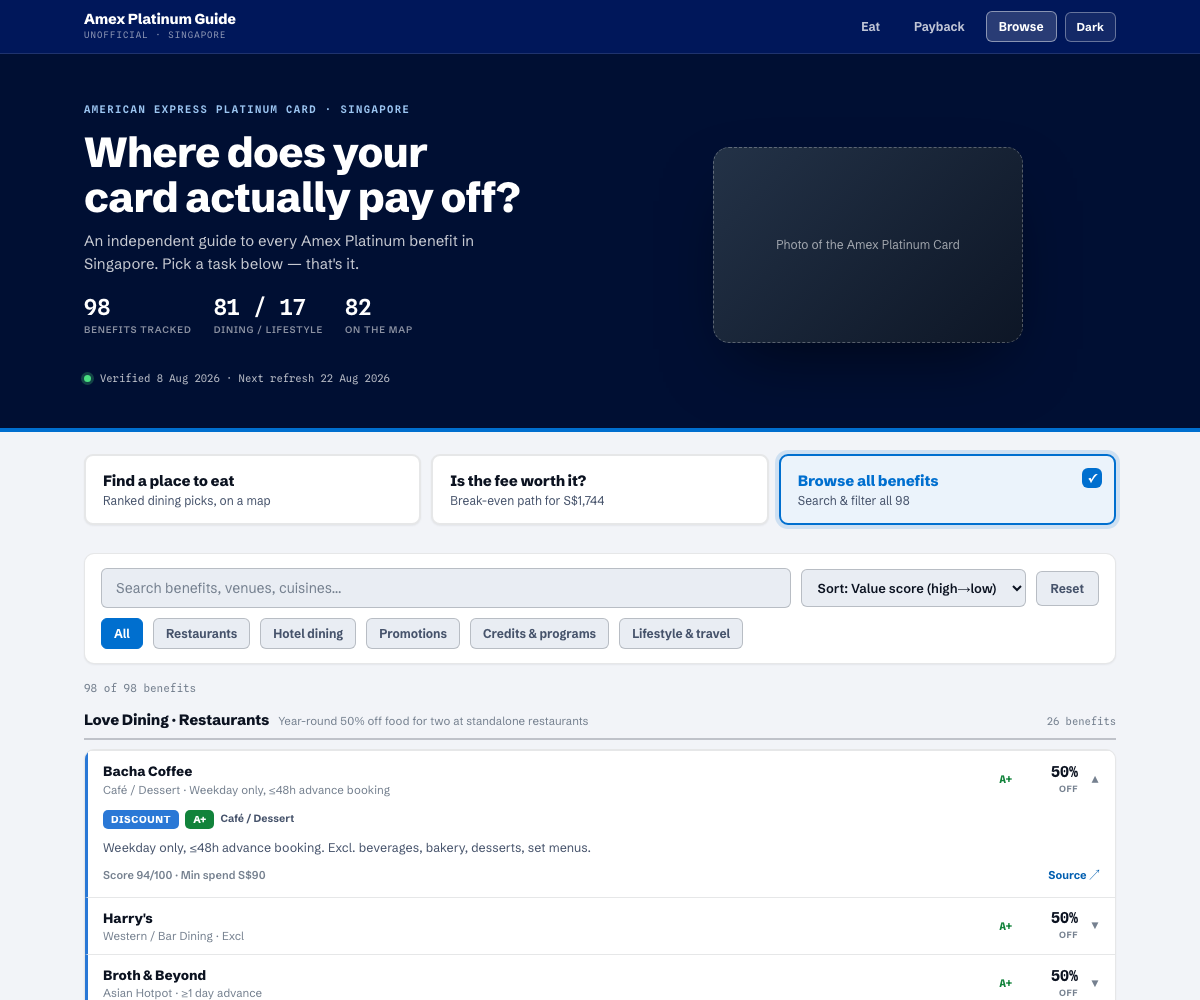
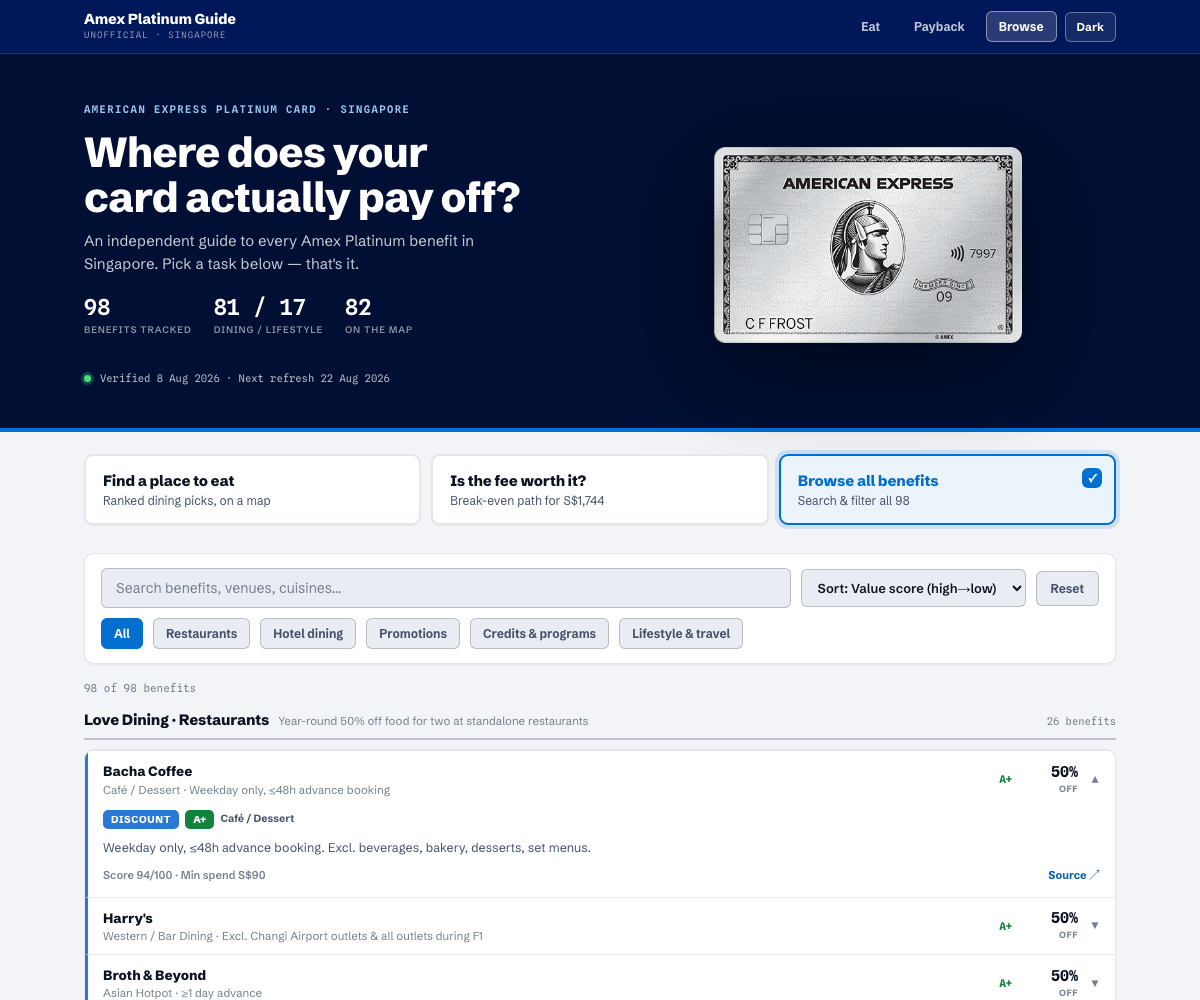
Add the official card art and clear every validator warning
- site/assets/amex-platinum-card.png: the Singapore Platinum Card art from
  Amex's own CDN (480x304 transparent PNG), used editorially; the hero now
  drop-shadows the artwork itself instead of a box behind it
- Beast & Butterflies now has its M Social Singapore coordinates, so it
  appears on the map like every other bookable dining discount
- four access summaries shortened to fit a collapsed row
- test-parity now compares v1 against a FRESH migration rather than the
  published file, so refresh edits to site/benefits-data.json no longer
  read as migration losses
- validate.mjs: 0 warnings

Claude-Session: https://claude.ai/code/session_01PA3FuHpA8CMqLdEsqte79E

Changed region(s): [[0.5858, 0.124, 0.8633, 0.341], [0.2158, 0.93, 0.4008, 0.961]]

diff --git a/site/index.html b/site/index.html
@@ -84,9 +84,11 @@ button{font-family:var(--sans);cursor:pointer;}
 .fresh{display:inline-flex;align-items:center;gap:9px;margin-top:18px;font-family:var(--mono);font-size:10.5px;color:rgba(255,255,255,0.72);}
 .fresh__dot{width:7px;height:7px;border-radius:50%;background:#4ADE80;box-shadow:0 0 0 3px rgba(74,222,128,0.25);}
 .hero__art{display:flex;justify-content:center;}
-.cardshot{width:310px;max-width:100%;aspect-ratio:1.586;border-radius:16px;box-shadow:0 30px 70px -24px rgba(0,0,0,0.6);overflow:hidden;margin:0;background:linear-gradient(135deg,#233247,#0d1626);}
-.cardshot img{width:100%;height:100%;object-fit:cover;display:block;}
-.cardshot__ph{width:100%;height:100%;display:flex;align-items:center;justify-content:center;text-align:center;padding:18px;border:1px dashed rgba(255,255,255,0.28);border-radius:16px;font-size:12px;color:rgba(255,255,255,0.6);}
+/* The card art is a transparent PNG with its own rounded corners, so the
+   shadow follows the artwork rather than a box behind it. */
+.cardshot{width:310px;max-width:100%;aspect-ratio:1.586;margin:0;}
+.cardshot img{width:100%;height:100%;object-fit:contain;display:block;filter:drop-shadow(0 26px 48px rgba(0,0,0,0.55));}
+.cardshot__ph{width:100%;height:100%;display:flex;align-items:center;justify-content:center;text-align:center;padding:18px;border:1px dashed rgba(255,255,255,0.28);border-radius:16px;font-size:12px;color:rgba(255,255,255,0.6);background:linear-gradient(135deg,#233247,#0d1626);box-shadow:0 30px 70px -24px rgba(0,0,0,0.6);}
 
 /* ── task picker ────────────────────────────────────────────────────── */
 .picker{display:grid;grid-template-columns:repeat(auto-fit,minmax(min(100%,220px),1fr));gap:10px;padding:22px 0 8px;}
@@ -246,7 +248,7 @@ button{font-family:var(--sans);cursor:pointer;}
     </div>
     <div class="hero__art">
       <figure class="cardshot">
-        <img src="./assets/amex-platinum-card.jpg" alt="The American Express Platinum Card"
+        <img src="./assets/amex-platinum-card.png" alt="The American Express Platinum Card"
              onerror="this.replaceWith(Object.assign(document.createElement('div'),{className:'cardshot__ph',textContent:'Photo of the Amex Platinum Card'}))">
       </figure>
     </div>

diff --git a/site/assets/README.md b/site/assets/README.md
@@ -1,6 +1,15 @@
 # Hero image
 
-The hero renders `assets/amex-platinum-card.jpg` when it exists and falls back
-to a dashed placeholder when it does not — the page is fully functional either
-way. Drop a photo of the card here at roughly 3:2 (the frame is 310 × 195 CSS
-pixels, so 930 × 586 or larger keeps it sharp on retina screens).
+`amex-platinum-card.png` — the official Singapore Platinum Card art, 480 × 304
+transparent PNG, from American Express's own CDN:
+
+    https://icm.aexp-static.com/acquisition/card-art/NUS000000237_480x304_straight_withname.png
+
+It is product artwork used editorially to identify the card this guide is about.
+The guide states in its footer that it is unofficial and not affiliated with or
+endorsed by American Express. Swap it for an original photo if you would rather
+not use Amex's asset.
+
+The hero renders this file when it exists and falls back to a dashed placeholder
+when it does not — the page works either way. The frame is 310 × 195 CSS pixels
+at a 1.586 aspect ratio.
